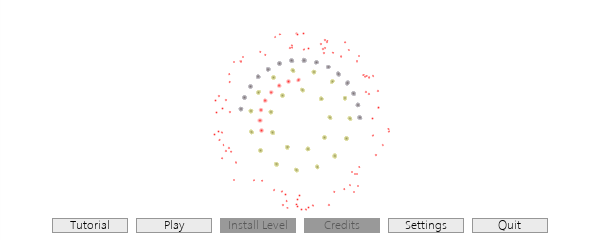
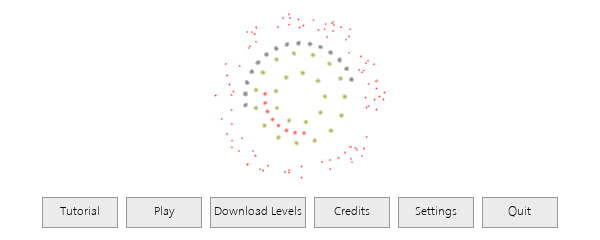
Add download links and broken levels section to readme

diff --git a/README.md b/README.md
@@ -4,6 +4,14 @@
 
 An open source implementation of Knytt Stories in C# using Godot Engine
 
+[Download YKnytt v0.5 beta for Android](/releases/download/0.5.0/YKnytt.apk)
+
+[Download YKnytt v0.5 beta for Windows](/releases/download/0.5.0/YKnytt_v0.5.0_win.zip)
+
+[Download YKnytt v0.5 beta for Linux/X11](/releases/download/0.5.0/YKnytt_v0.5.0_linux.zip)
+
+YKnytt for Web: coming soon
+
 ### Screenshots
 
 ![image](screenshots/screen6.png)
@@ -14,13 +22,25 @@ An open source implementation of Knytt Stories in C# using Godot Engine
 
 ![image](screenshots/screen4.png)
 
-![image](screenshots/screen1.png)
+![image](screenshots/screen7.png)
+
+### Reporting a broken level
+
+Feel free to report any bug you found in levels on the issues page. It would be great if you provide us a brief description and attach a save file.
+
+<details>
+<summary>Where to find save files</summary>
+
+On Windows: `Users/[User]/AppData/Roaming/Godot/app_userdata/YKnytt/Saves/`
+
+On Linux: `~/.local/share/godot/app_userdata/YKnytt/Saves/`
+
+On mobiles: open the console by pressing [down] + [info] + [jump] simultaneously, and type `save copy`. You will get a save file in your clipboard.
+</details>
 
 ### Building
 
 Requires Godot 3.5.2.stable.mono and .NET Framework 4.8 Developer Pack for Windows (or mono-devel for Linux)
-
-Also has Godot 4 branch in development: this one requires Godot 4.0.2.stable.mono and .NET SDK 6 or 7
 
 #### Export settings
 
@@ -30,8 +50,8 @@ To build a proper Android APK, activate the "Internet" permission.
 
 ### Playing
 
-There must be a worlds directory in the project root (or next to the binary if you have exported).
+You can download additional levels from the built-in level downloader (if our server is running).
 
-Place packed (.knytt.bin) or unpacked worlds in that directory.
+Or you can place packed (.knytt.bin) or unpacked levels in `worlds` directory.
 
-You can also download additional levels from the in-game level downloader (if our server is running)
+That directory must be next to the binary file (or in the project root).